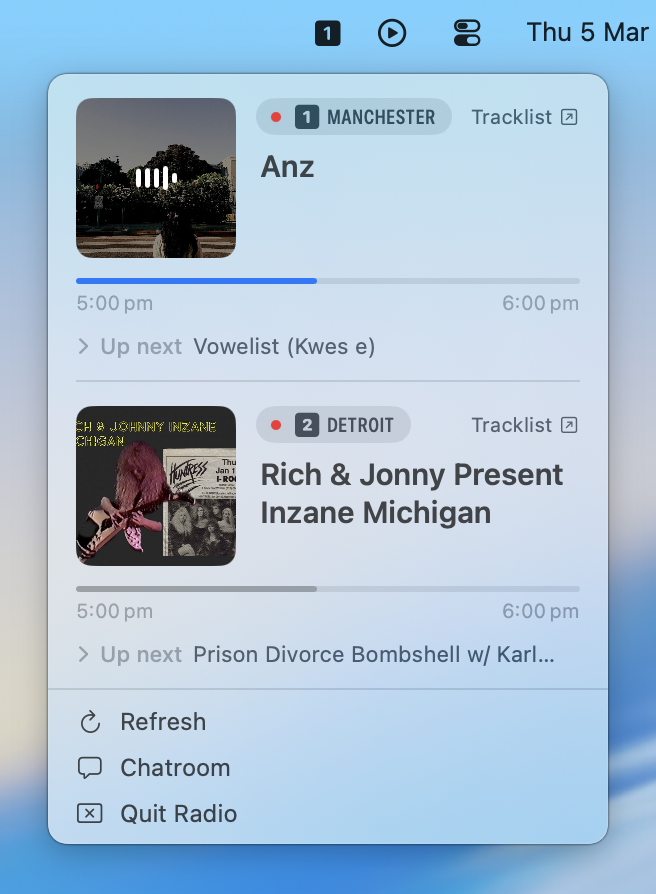
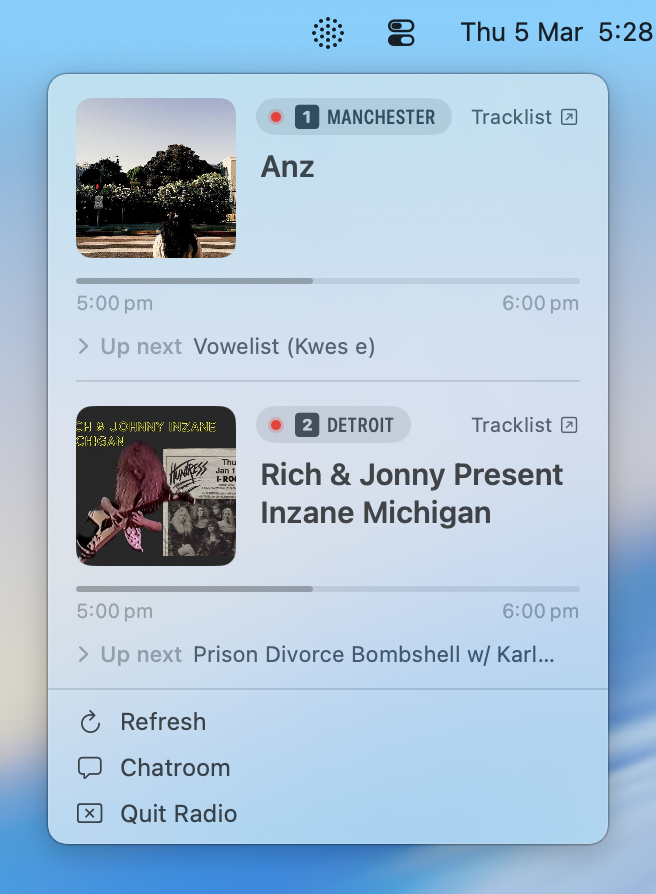
stopped image flickering

diff --git a/Current/ViewModels/AppState.swift b/Current/ViewModels/AppState.swift
@@ -223,20 +223,25 @@ final class AppState {
     }
 
     private func loadDiff() {
-        imageDiffOld = nil
-        imageDiffNew = nil
         guard let repo = currentRepository, let file = selectedFile, let source = selectedSource else {
             diffText = ""
+            imageDiffOld = nil
+            imageDiffNew = nil
             return
         }
         if file.isLikelyImage {
             let contents = repo.imageContents(for: file, in: source)
-            imageDiffOld = contents.old
-            imageDiffNew = contents.new
             diffText = ""
             errorMessage = nil
+            // Only touch these if the bytes actually changed — an unconditional nil-then-set
+            // makes the image view flash to its empty state on every FSEvents-triggered
+            // refresh, even when this file didn't change.
+            if contents.old != imageDiffOld { imageDiffOld = contents.old }
+            if contents.new != imageDiffNew { imageDiffNew = contents.new }
             return
         }
+        imageDiffOld = nil
+        imageDiffNew = nil
         do {
             switch source {
             case .workingChanges:
